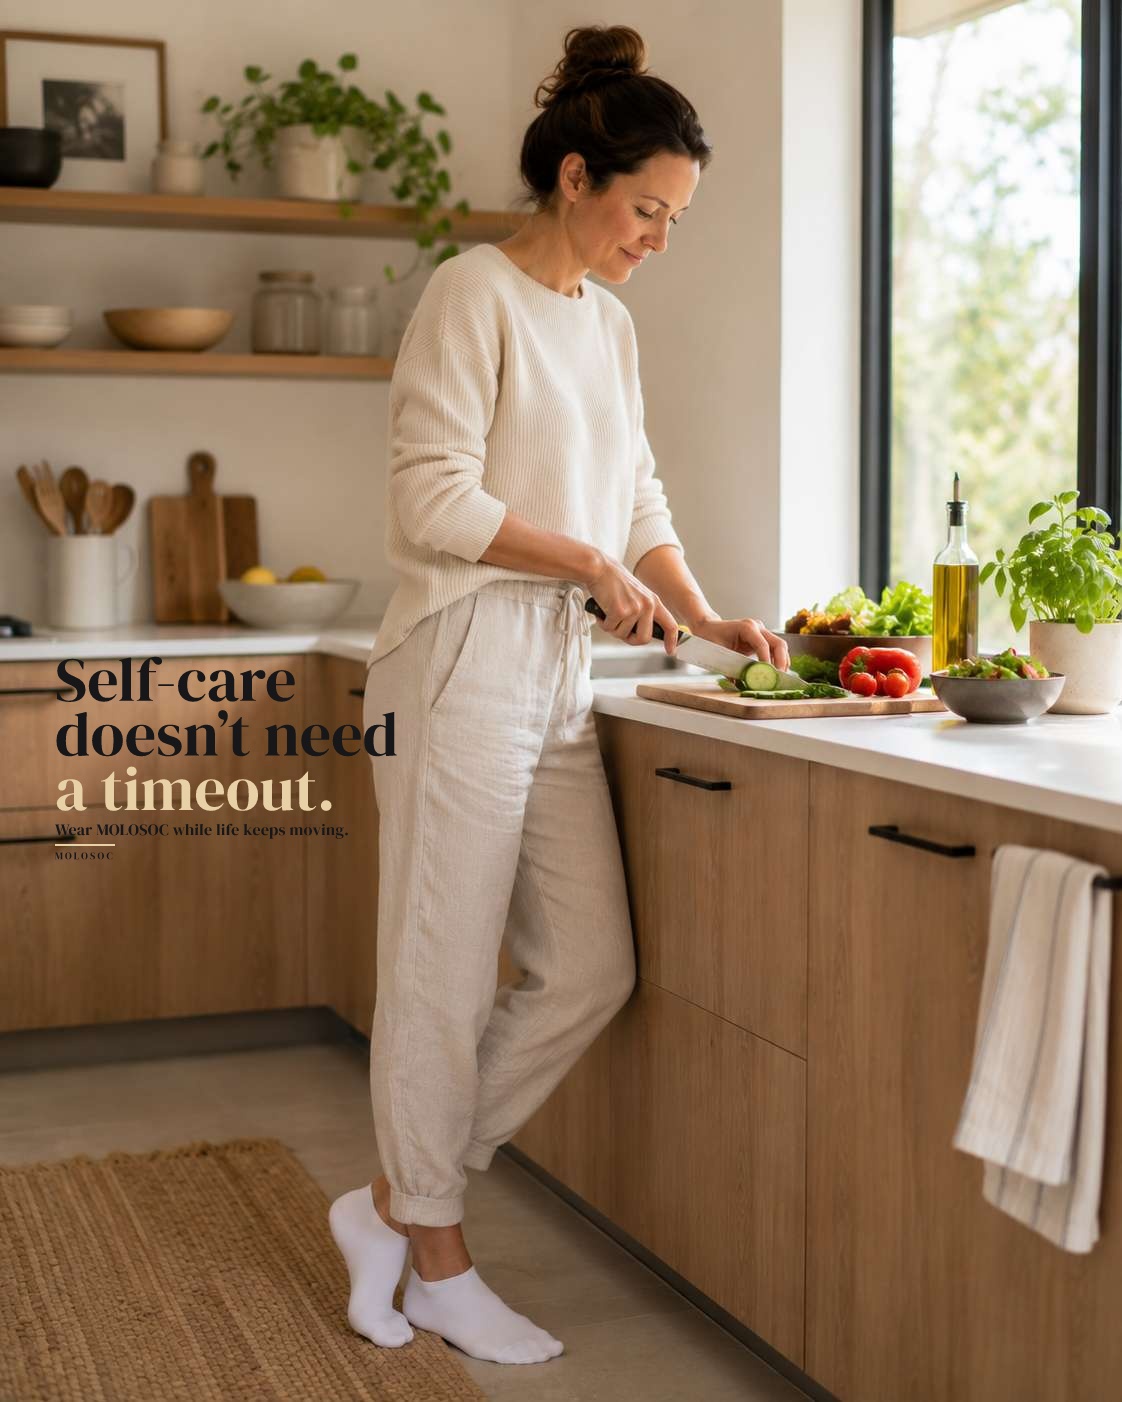
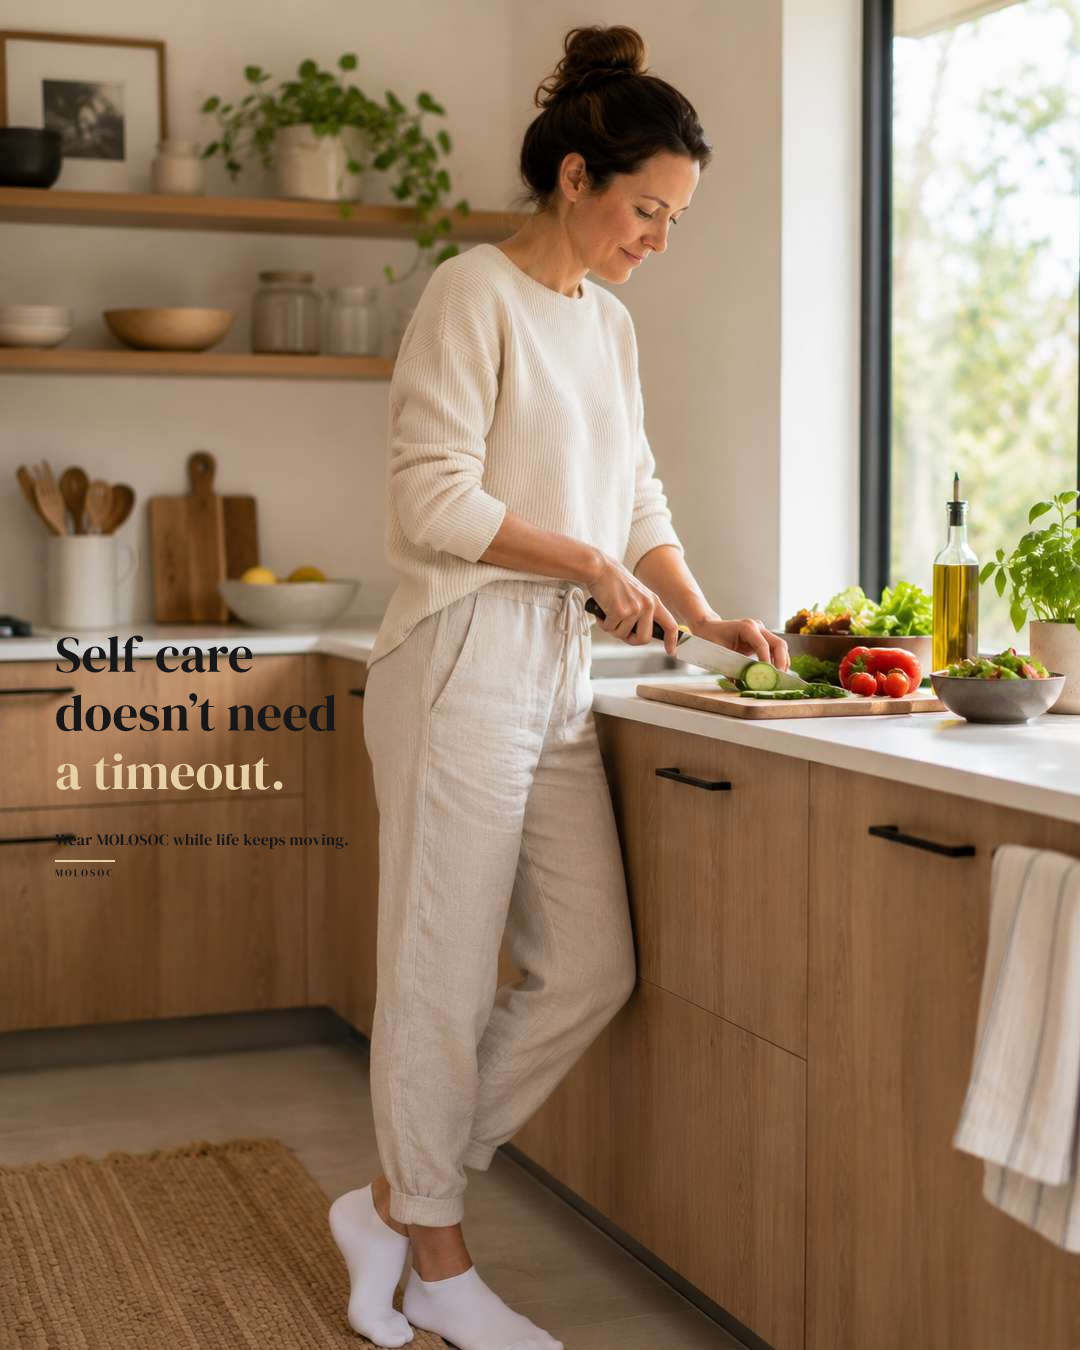
Fix Post 2 headline rendering: one locked composition, no crescendo
The per-line size/gap "crescendo" styling (small kicker lines jumping to
one huge emphasis line at headlineLineHeight 0.85) was tighter than DM
Serif Display's own ascent+descent (1.371em) even for same-size stacked
lines, and the uneven per-line jumps read as a messy, misaligned block.

Replaces MOL_IMG_005's V1/V2/V3 crescendo variants with a single locked
V1: uniform 51px headline across all three lines, headlineLineHeight
raised to 1.15, same crop, same exact copy/line-breaks and accent line
from copy.json (no override needed).

Also re-measured the model's hip/pants edge directly on the master
(pixel grid, not the prior estimate) — it pinches to ~x360 at y700-730,
tighter than assumed. Narrowed textBox.width 370->300 to keep ~20px
clear of that pinch, and dropped supportFontSize 20->16 (matching
MOL_IMG_001's convention) since the old 20px support line's ~391px
width ran past this same edge at y800-840, uncaught because boundary
validation only checks canvas edges, not the subject.

Updates the CI workflow to render Post 2's single output instead of
three variants.

diff --git a/assets/social/README.md b/assets/social/README.md
@@ -136,8 +136,10 @@ land in `output/`.
    layout entry, don't work around the check.
 
 As of this writing, `config/layouts.json` has `V1`/`V2`/`V3` entries for
-`MOL_IMG_001`, `MOL_IMG_005`, and `MOL_IMG_019` only (manually-configured
-prototypes, one crop-tightness progression each). `config/copy.json` has all
+`MOL_IMG_001` and `MOL_IMG_019` (manually-configured prototypes, one
+crop-tightness progression each), and a single locked `V1` for `MOL_IMG_005`
+(its headline copy/composition is finalized — see its `_photo_notes` — so
+it isn't kept as a set of competing variants). `config/copy.json` has all
 20 images' copy ready, but the other 17 need layout entries authored the
 same way before they can render.
 
